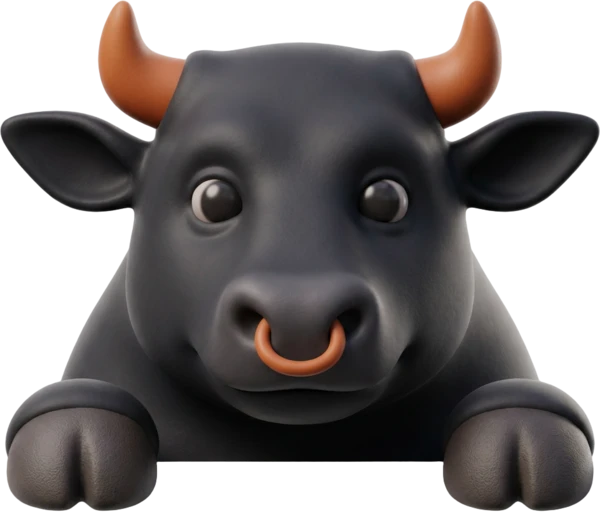
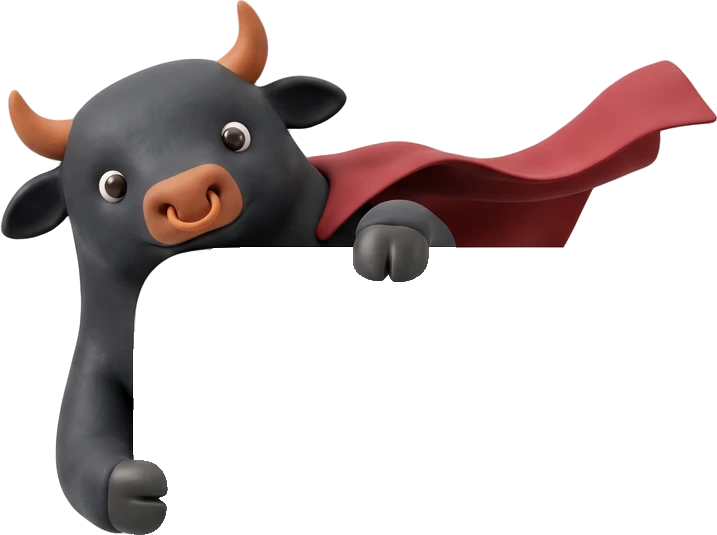
feat: give the mascot family a red superhero cape
it's SuperBull — the cape is the point; the shared style suffix
carries the cape so every render stays one character (also adds the
hero ambient scene job the new hero band consumes)

diff --git a/apps/web/scripts/gen-landing-assets.ts b/apps/web/scripts/gen-landing-assets.ts
@@ -13,7 +13,7 @@ const destDir = path.join(process.cwd(), 'public/landing/raw');
 
 // One shared style suffix so the whole mascot family reads as one character.
 const bullStyle =
-  'Minimalist soft-clay 3D render of a stocky, confident bull character, matte charcoal-black hide with a soft sheen, small blunt burnt-orange horns, thick short neck, big round friendly dark eyes, a small burnt-orange nose ring, Pixar-adjacent toy-like character design, soft studio lighting, gentle shadows. Clean pure white background. No text, no words, no letters, no numbers, no watermark, no logo.';
+  'Minimalist soft-clay 3D render of a stocky, confident bull character, matte charcoal-black hide with a soft sheen, small blunt burnt-orange horns, thick short neck, big round friendly dark eyes, a small burnt-orange nose ring, Pixar-adjacent toy-like character design, soft studio lighting, gentle shadows. The bull wears a flowing crimson-red superhero cape in matte fabric, fastened around its neck with a small knot at the collar, draping naturally behind its body and shoulders, reading as an integral part of the character with the same soft-clay 3D material as the rest of the bull; the cape has no emblem and no letters on it. Clean pure white background. No text, no words, no letters, no numbers, no watermark, no logo.';
 
 const jobs: Array<{
   slug: string;
@@ -23,27 +23,32 @@ const jobs: Array<{
   {
     slug: 'bull-peek',
     ar: '1:1',
-    prompt: `The bull peeks out from behind a plain white rounded rectangular panel, only its head and two front hooves visible gripping the top edge, curious wide eyes, friendly alert expression. The panel is pure flat white. ${bullStyle}`,
+    prompt: `The bull peeks out from behind a plain white rounded rectangular panel, only its head and two front hooves visible gripping the top edge, curious wide eyes, friendly alert expression. A sliver of its red cape is visible fluttering up behind its head and over the panel edge, as if caught mid-motion. The panel is pure flat white. ${bullStyle}`,
   },
   {
     slug: 'bull-presenting',
     ar: '1:1',
-    prompt: `The bull stands upright on its hind legs, one front hoof raised in a confident ta-da presenting gesture, chest out, proud grin, satisfied. ${bullStyle}`,
+    prompt: `The bull stands upright on its hind legs, one front hoof raised in a confident ta-da presenting gesture, chest out, proud grin, satisfied, heroic superhero stance. Its red cape flares out behind its shoulders. ${bullStyle}`,
   },
   {
     slug: 'bull-nightwatch',
     ar: '1:1',
-    prompt: `The bull sits calmly upright in the dark, alert half-lidded eyes still watching, a soft warm glow lighting its face from the front as if from an unseen screen, relaxed but attentive posture, cozy quiet mood. ${bullStyle}`,
+    prompt: `The bull sits calmly upright in the dark, alert half-lidded eyes still watching, a soft warm glow lighting its face from the front as if from an unseen screen, relaxed but attentive posture, cozy quiet mood, like a watchful hero on a quiet stakeout. Its red cape is draped calmly down around its shoulders and pooled slightly behind it. ${bullStyle}`,
   },
   {
     slug: 'bull-running',
     ar: '1:1',
-    prompt: `The bull runs energetically to the right at full sprint, head low, one small motion-blur dust puff behind its hooves, determined focused expression, ears back. ${bullStyle}`,
+    prompt: `The bull runs energetically to the right at full sprint, head low, one small motion-blur dust puff behind its hooves, determined focused expression, ears back, superhero-in-motion energy. Its red cape streams straight out behind it in the wind from the sprint. ${bullStyle}`,
   },
   {
     slug: 'bull-charge-scene',
     ar: '16:9',
-    prompt: `A wide dynamic scene: the bull charging forward head-down through a shattering wall of small flat red cube tiles, fragments of red tiles flying outward, and just behind the bull a few of the shattered fragments are reassembling into small flat green cube tiles that glow softly. Dramatic three-quarter view, dust and motion trails, soft pastel-cream background with lots of clean negative space at the top and left for text, gentle studio lighting. ${bullStyle}`,
+    prompt: `A wide dynamic scene: the bull charging forward head-down through a shattering wall of small flat red cube tiles, fragments of red tiles flying outward, and just behind the bull a few of the shattered fragments are reassembling into small flat green cube tiles that glow softly. Its red cape streams dramatically behind it, whipped by the charge, echoing the flying red tile fragments. Dramatic three-quarter view, dust and motion trails, soft pastel-cream background with lots of clean negative space at the top and left for text, gentle studio lighting. ${bullStyle}`,
+  },
+  {
+    slug: 'bull-hero-ambient',
+    ar: '16:9',
+    prompt: `A calm, wide ambient scene: the bull stands confidently on all four hooves in a relaxed three-quarter side view, weight settled, head level, calm alert expression, positioned low in the frame on a thin plain floor with a soft contact shadow. Its red cape drapes down its back and rests still, ready to ripple gently. Behind and above the bull is a vast, completely plain, flat near-white cream backdrop with zero texture, zero objects, and zero horizon line — pure empty negative space filling the entire top half of the frame. Nothing else in the scene: no walls, no tiles, no props, no dust, no shadows other than the bull's own. Soft even studio lighting, quiet mood. ${bullStyle}`,
   },
   {
     slug: 'logo-bull-head',
